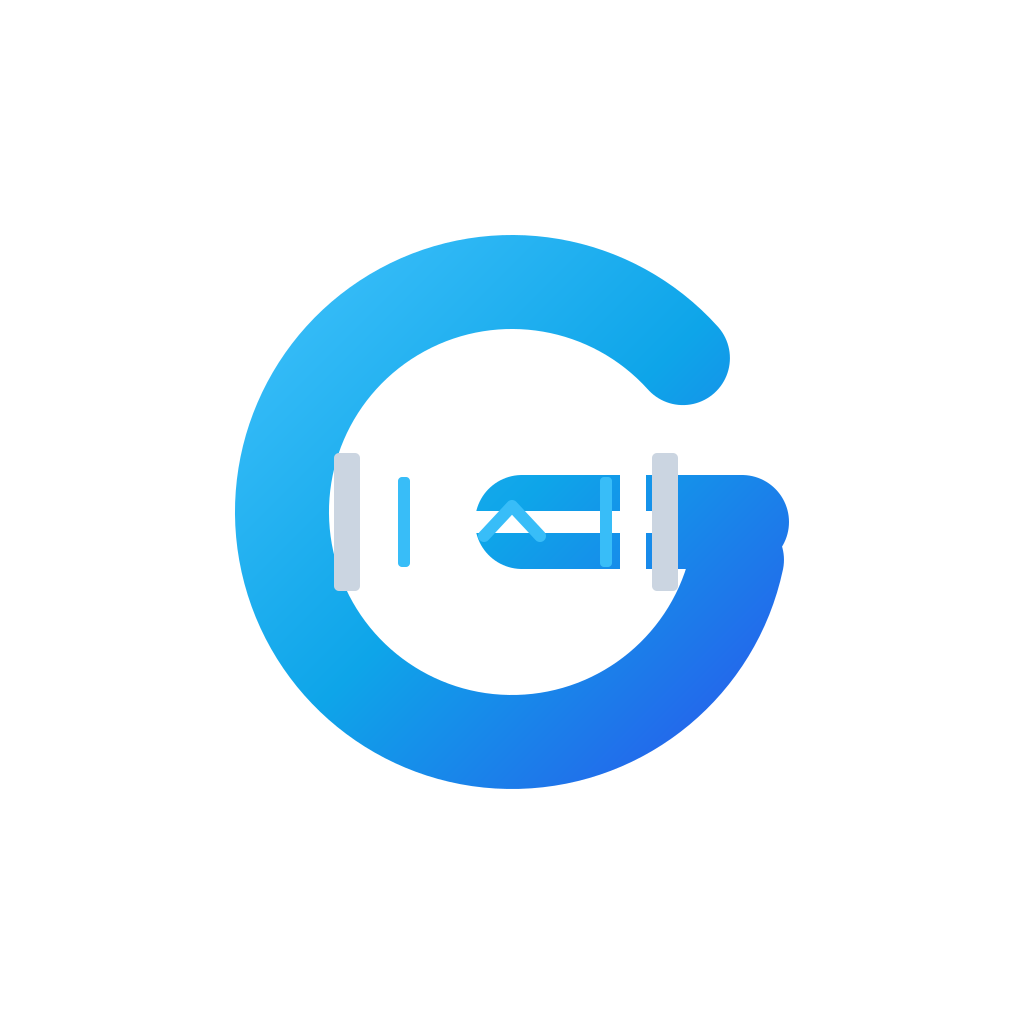
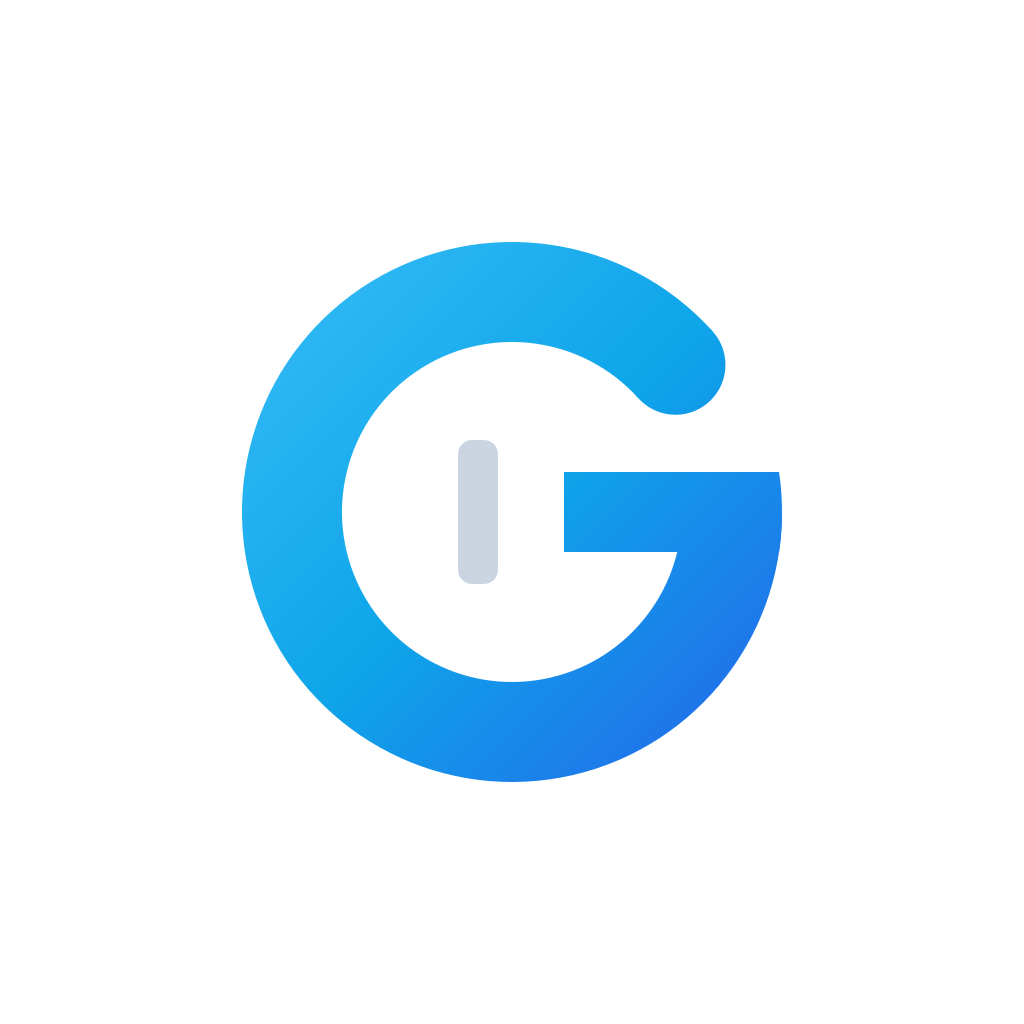
feat: diseño de marca, iconos y splash screen con expo-splash-screen

diff --git a/scripts/generate_brand_assets.py b/scripts/generate_brand_assets.py
@@ -1,203 +1,153 @@
 #!/usr/bin/env python3
 """
-Generador de assets de marca oficiales para GymFor.
-Crea los iconos y splash screen requeridos en assets/ con gráficos vectoriales (Cairo)
-y compresión PNG sin pérdida (Pillow).
+Generador de los assets de marca de GymFor (iconos y splash).
+
+Dibuja el emblema con Cairo (vectorial) y guarda PNGs con compresión sin
+pérdida (Pillow). Requiere `pycairo` y `Pillow`:
+
+    python3 scripts/generate_brand_assets.py
+
+Emblema: una «G» cuyo travesaño termina en un disco de pesas. Formas grandes
+y sin detalles finos para que se lea bien también a 48 px.
 """
 
 import math
 import os
+
 import cairo
 from PIL import Image
 
 ASSETS_DIR = os.path.join(os.path.dirname(os.path.abspath(__file__)), '..', 'assets')
 
 SIZE = 1024
-BG_COLOR = (15 / 255, 23 / 255, 42 / 255)  # #0F172A (Deep Slate Obsidian)
+BG_COLOR = (15 / 255, 23 / 255, 42 / 255)  # #0F172A
 
-# Paleta GymFor
-CYAN = (56 / 255, 189 / 255, 248 / 255)       # #38BDF8
+CYAN = (56 / 255, 189 / 255, 248 / 255)      # #38BDF8
 ELECTRIC = (14 / 255, 165 / 255, 233 / 255)  # #0EA5E9
 ROYAL = (37 / 255, 99 / 255, 235 / 255)      # #2563EB
 WHITE = (1.0, 1.0, 1.0)
 SILVER = (203 / 255, 213 / 255, 225 / 255)   # #CBD5E1
 
+# Geometría del emblema (unidades a escala 1.0, centrado en el origen).
+R_MEDIO = 220        # radio medio del anillo de la G
+GROSOR = 100         # grosor del trazo de la G
+R_EXTERIOR = R_MEDIO + GROSOR / 2  # 270 → diámetro 540 px < 682 px (zona segura 66%)
 
-def dibujar_emblema_gymfor(ctx, cx, cy, scale=1.0, monocromo=False):
-    """
-    Dibuja el emblema de GymFor: Monograma 'G' atlético integrado con barra y discos olímpicos.
-    El diámetro máximo a escala 1.0 es ~560 px, situado holgadamente dentro de la zona segura
-    de Android (diámetro 66% = ~682 px).
-    """
+
+def _rect_redondeado(ctx, x, y, w, h, r):
+    ctx.new_sub_path()
+    ctx.arc(x + w - r, y + r, r, math.radians(-90), 0)
+    ctx.arc(x + w - r, y + h - r, r, 0, math.radians(90))
+    ctx.arc(x + r, y + h - r, r, math.radians(90), math.radians(180))
+    ctx.arc(x + r, y + r, r, math.radians(180), math.radians(270))
+    ctx.close_path()
+
+
+def dibujar_emblema(ctx, cx, cy, escala=1.0, monocromo=False):
+    """Dibuja el emblema de GymFor centrado en (cx, cy)."""
     ctx.save()
     ctx.translate(cx, cy)
-    ctx.scale(scale, scale)
+    ctx.scale(escala, escala)
 
-    r_mid = 230
-    stroke_w = 94
-
-    # 1. Arco exterior de la letra G
     if monocromo:
-        ctx.set_source_rgba(1.0, 1.0, 1.0, 1.0)
+        relleno_g = cairo.SolidPattern(*WHITE)
     else:
-        grad = cairo.LinearGradient(-220, -220, 220, 220)
-        grad.add_color_stop_rgb(0.0, *CYAN)
-        grad.add_color_stop_rgb(0.5, *ELECTRIC)
-        grad.add_color_stop_rgb(1.0, *ROYAL)
-        ctx.set_source(grad)
+        relleno_g = cairo.LinearGradient(-R_EXTERIOR, -R_EXTERIOR, R_EXTERIOR, R_EXTERIOR)
+        relleno_g.add_color_stop_rgb(0.0, *CYAN)
+        relleno_g.add_color_stop_rgb(0.5, *ELECTRIC)
+        relleno_g.add_color_stop_rgb(1.0, *ROYAL)
 
-    ctx.set_line_width(stroke_w)
-    ctx.set_line_cap(cairo.LINE_CAP_ROUND)
-
-    # El arco recorre desde 12° en sentido horario hasta 318°
-    ctx.arc(0, 0, r_mid, math.radians(12), math.radians(318))
+    # 1. Anillo de la G: de 0° (derecha, a la altura del travesaño) en sentido
+    #    horario por abajo, izquierda y arriba hasta 318° (abertura arriba-derecha).
+    ctx.set_source(relleno_g)
+    ctx.set_line_width(GROSOR)
+    ctx.set_line_cap(cairo.LINE_CAP_BUTT)
+    ctx.arc(0, 0, R_MEDIO, 0, math.radians(318))
     ctx.stroke()
+    # Remate redondeado solo en el extremo superior de la abertura.
+    fin = math.radians(318)
+    ctx.arc(R_MEDIO * math.cos(fin), R_MEDIO * math.sin(fin), GROSOR / 2, 0, 2 * math.pi)
+    ctx.fill()
 
-    # Barra horizontal de entrada de la G
-    ctx.move_to(r_mid, 10)
-    ctx.line_to(10, 10)
-    ctx.stroke()
+    # 2. Travesaño de la G: del centro hacia el anillo, recortado por el círculo
+    #    exterior para que su extremo quede a ras de la curva.
+    alto_barra = GROSOR * 0.8
+    x_inicio_barra = 40
+    ctx.save()
+    ctx.arc(0, 0, R_EXTERIOR, 0, 2 * math.pi)
+    ctx.clip()
+    ctx.rectangle(x_inicio_barra, -alto_barra / 2, R_EXTERIOR - x_inicio_barra, alto_barra)
+    ctx.fill()
+    ctx.restore()
 
-    # 2. Barra de levantamiento (Barbell shaft)
-    if monocromo:
-        ctx.set_source_rgba(1.0, 1.0, 1.0, 1.0)
-    else:
-        ctx.set_source_rgb(*WHITE)
-
-    ctx.set_line_width(22)
-    ctx.set_line_cap(cairo.LINE_CAP_ROUND)
-    ctx.move_to(-140, 10)
-    ctx.line_to(140, 10)
-    ctx.stroke()
-
-    # Función auxiliar para dibujar discos redondeados
-    def dibujar_disco(x, y, w, h, r, col):
-        if monocromo:
-            ctx.set_source_rgba(1.0, 1.0, 1.0, 1.0)
-        else:
-            ctx.set_source_rgb(*col)
-        ctx.new_sub_path()
-        ctx.arc(x + r, y + r, r, math.radians(180), math.radians(270))
-        ctx.arc(x + w - r, y + r, r, math.radians(270), math.radians(360))
-        ctx.arc(x + w - r, y + h - r, r, math.radians(0), math.radians(90))
-        ctx.arc(x + r, y + h - r, r, math.radians(90), math.radians(180))
-        ctx.close_path()
-        ctx.fill()
-
-    plate_h = 170
-    plate_w = 26
-
-    # Discos del lado izquierdo
-    dibujar_disco(-120 - plate_w, 10 - plate_h / 2, plate_w, plate_h, 6, WHITE)
-    dibujar_disco(-120 - plate_w * 2 - 6, 10 - (plate_h - 32) / 2, plate_w, plate_h - 32, 5, SILVER)
-    dibujar_disco(-120 + 6, 10 - 45, 12, 90, 4, CYAN)  # collar
-
-    # Discos del lado derecho
-    dibujar_disco(120 - plate_w + 14, 10 - plate_h / 2, plate_w, plate_h, 6, WHITE)
-    dibujar_disco(120 + 20, 10 - (plate_h - 32) / 2, plate_w, plate_h - 32, 5, SILVER)
-    dibujar_disco(120 - plate_w - 6, 10 - 45, 12, 90, 4, CYAN)  # collar
-
-    # Chevron central de progresión / 1RM
-    if monocromo:
-        ctx.set_source_rgba(1.0, 1.0, 1.0, 1.0)
-    else:
-        ctx.set_source_rgb(*CYAN)
-    ctx.set_line_width(12)
-    ctx.set_line_cap(cairo.LINE_CAP_ROUND)
-    ctx.set_line_join(cairo.LINE_JOIN_ROUND)
-    ctx.move_to(-28, 24)
-    ctx.line_to(0, -6)
-    ctx.line_to(28, 24)
-    ctx.stroke()
+    # 3. Disco de pesas en el extremo interior del travesaño (no se solapa con el anillo).
+    ctx.set_source_rgb(*WHITE)
+    _rect_redondeado(ctx, -4, -105, 56, 210, 18)
+    ctx.fill()
+    ctx.set_source_rgb(*(WHITE if monocromo else SILVER))
+    _rect_redondeado(ctx, -54, -72, 40, 144, 14)
+    ctx.fill()
 
     ctx.restore()
 
 
-def guardar_png_optimizado(superficie_cairo, ruta_destino, modo_final='RGBA'):
-    """Guarda una superficie Cairo en PNG aplicando compresión sin pérdida."""
-    temp_path = ruta_destino + '.tmp.png'
-    superficie_cairo.write_to_png(temp_path)
-    with Image.open(temp_path) as im:
-        im_convertida = im.convert(modo_final)
-        im_convertida.save(ruta_destino, 'PNG', optimize=True, compress_level=9)
-    if os.path.exists(temp_path):
-        os.remove(temp_path)
-    print(f'Generado {os.path.basename(ruta_destino)}: {im_convertida.size}, modo={im_convertida.mode}, peso={os.path.getsize(ruta_destino)} bytes')
+def _guardar(superficie, nombre, modo):
+    ruta = os.path.join(ASSETS_DIR, nombre)
+    temporal = ruta + '.tmp.png'
+    superficie.write_to_png(temporal)
+    with Image.open(temporal) as im:
+        im.convert(modo).save(ruta, 'PNG', optimize=True, compress_level=9)
+    os.remove(temporal)
+    print(f'{nombre}: {modo}, {os.path.getsize(ruta)} bytes')
+    return ruta
 
 
-def generar_todos_los_assets():
+def _superficie(con_fondo):
+    formato = cairo.FORMAT_RGB24 if con_fondo else cairo.FORMAT_ARGB32
+    superficie = cairo.ImageSurface(formato, SIZE, SIZE)
+    ctx = cairo.Context(superficie)
+    if con_fondo:
+        ctx.set_source_rgb(*BG_COLOR)
+        ctx.paint()
+    return superficie, ctx
+
+
+def generar():
     os.makedirs(ASSETS_DIR, exist_ok=True)
 
-    # 1. icon.png (1024x1024 RGB, sin canal alfa)
-    surf_icon = cairo.ImageSurface(cairo.FORMAT_RGB24, SIZE, SIZE)
-    ctx_icon = cairo.Context(surf_icon)
-    ctx_icon.set_source_rgb(*BG_COLOR)
-    ctx_icon.paint()
-    dibujar_emblema_gymfor(ctx_icon, SIZE / 2, SIZE / 2, 1.0, monocromo=False)
-    guardar_png_optimizado(surf_icon, os.path.join(ASSETS_DIR, 'icon.png'), modo_final='RGB')
+    # icon.png / adaptive-icon.png: 1024×1024 RGB sin alfa.
+    s, ctx = _superficie(con_fondo=True)
+    dibujar_emblema(ctx, SIZE / 2, SIZE / 2)
+    ruta_icono = _guardar(s, 'icon.png', 'RGB')
+    _guardar(s, 'adaptive-icon.png', 'RGB')
 
-    # 2. adaptive-icon.png (1024x1024 RGB, sin canal alfa para compatibilidad Android legacy)
-    guardar_png_optimizado(surf_icon, os.path.join(ASSETS_DIR, 'adaptive-icon.png'), modo_final='RGB')
+    # android-icon-foreground.png: RGBA transparente, emblema dentro de la zona segura.
+    s, ctx = _superficie(con_fondo=False)
+    dibujar_emblema(ctx, SIZE / 2, SIZE / 2)
+    _guardar(s, 'android-icon-foreground.png', 'RGBA')
 
-    # 3. android-icon-foreground.png (1024x1024 RGBA, fondo transparente, zona segura 66%)
-    surf_fg = cairo.ImageSurface(cairo.FORMAT_ARGB32, SIZE, SIZE)
-    ctx_fg = cairo.Context(surf_fg)
-    dibujar_emblema_gymfor(ctx_fg, SIZE / 2, SIZE / 2, 1.0, monocromo=False)
-    guardar_png_optimizado(surf_fg, os.path.join(ASSETS_DIR, 'android-icon-foreground.png'), modo_final='RGBA')
+    # android-icon-background.png: color sólido #0F172A.
+    s, _ = _superficie(con_fondo=True)
+    _guardar(s, 'android-icon-background.png', 'RGB')
 
-    # 4. android-icon-background.png (1024x1024 RGB sólido #0F172A)
-    surf_bg = cairo.ImageSurface(cairo.FORMAT_RGB24, SIZE, SIZE)
-    ctx_bg = cairo.Context(surf_bg)
-    ctx_bg.set_source_rgb(*BG_COLOR)
-    ctx_bg.paint()
-    guardar_png_optimizado(surf_bg, os.path.join(ASSETS_DIR, 'android-icon-background.png'), modo_final='RGB')
+    # android-icon-monochrome.png: silueta blanca plana (Themed Icons, Android 13+).
+    s, ctx = _superficie(con_fondo=False)
+    dibujar_emblema(ctx, SIZE / 2, SIZE / 2, monocromo=True)
+    _guardar(s, 'android-icon-monochrome.png', 'RGBA')
 
-    # 5. android-icon-monochrome.png (1024x1024 RGBA, silueta plana blanca sobre transparente)
-    surf_mono = cairo.ImageSurface(cairo.FORMAT_ARGB32, SIZE, SIZE)
-    ctx_mono = cairo.Context(surf_mono)
-    dibujar_emblema_gymfor(ctx_mono, SIZE / 2, SIZE / 2, 1.0, monocromo=True)
-    guardar_png_optimizado(surf_mono, os.path.join(ASSETS_DIR, 'android-icon-monochrome.png'), modo_final='RGBA')
+    # splash-icon.png: solo el emblema sobre transparente. Sin texto y dentro del
+    # círculo central del 66%: Android 12+ recorta el icono de la splash en un
+    # círculo, y el texto o un emblema más grande quedarían cortados.
+    s, ctx = _superficie(con_fondo=False)
+    dibujar_emblema(ctx, SIZE / 2, SIZE / 2)
+    _guardar(s, 'splash-icon.png', 'RGBA')
 
-    # 6. splash-icon.png (1024x1024 RGBA, emblema + tipografía GymFor centrada)
-    surf_splash = cairo.ImageSurface(cairo.FORMAT_ARGB32, SIZE, SIZE)
-    ctx_splash = cairo.Context(surf_splash)
-    dibujar_emblema_gymfor(ctx_splash, SIZE / 2, 430, 0.88, monocromo=False)
-
-    # Tipografía G Y M F O R
-    ctx_splash.select_font_face('DejaVu Sans', cairo.FONT_SLANT_NORMAL, cairo.FONT_WEIGHT_BOLD)
-    ctx_splash.set_font_size(60)
-    ctx_splash.set_source_rgb(*WHITE)
-
-    letras = ['G', 'Y', 'M', 'F', 'O', 'R']
-    espacio = 20
-    anchos = [ctx_splash.text_extents(ch).x_advance for ch in letras]
-    ancho_total = sum(anchos) + espacio * (len(letras) - 1)
-    x_cursor = (SIZE - ancho_total) / 2
-    y_texto = 770
-
-    for ch in letras:
-        ctx_splash.move_to(x_cursor, y_texto)
-        ctx_splash.show_text(ch)
-        x_cursor += ctx_splash.text_extents(ch).x_advance + espacio
-
-    # Subtítulo descriptivo TRACKER
-    ctx_splash.select_font_face('DejaVu Sans', cairo.FONT_SLANT_NORMAL, cairo.FONT_WEIGHT_NORMAL)
-    ctx_splash.set_font_size(24)
-    ctx_splash.set_source_rgb(*CYAN)
-    sub = 'T R A C K E R'
-    sub_ext = ctx_splash.text_extents(sub)
-    ctx_splash.move_to((SIZE - sub_ext.width) / 2 - sub_ext.x_bearing, y_texto + 48)
-    ctx_splash.show_text(sub)
-
-    guardar_png_optimizado(surf_splash, os.path.join(ASSETS_DIR, 'splash-icon.png'), modo_final='RGBA')
-
-    # 7. favicon.png (48x48 RGBA, downscaling Lanczos de alta calidad)
-    with Image.open(os.path.join(ASSETS_DIR, 'icon.png')) as im_icon:
-        fav = im_icon.resize((48, 48), Image.Resampling.LANCZOS)
-        fav_path = os.path.join(ASSETS_DIR, 'favicon.png')
-        fav.save(fav_path, 'PNG', optimize=True, compress_level=9)
-        print(f'Generado favicon.png: (48, 48), modo={fav.mode}, peso={os.path.getsize(fav_path)} bytes')
+    # favicon.png: 48×48 reducido desde el icono.
+    with Image.open(ruta_icono) as im:
+        ruta = os.path.join(ASSETS_DIR, 'favicon.png')
+        im.resize((48, 48), Image.Resampling.LANCZOS).save(ruta, 'PNG', optimize=True)
+        print(f'favicon.png: RGB, {os.path.getsize(ruta)} bytes')
 
 
 if __name__ == '__main__':
-    generar_todos_los_assets()
+    generar()

diff --git a/AGENTS.md b/AGENTS.md
@@ -419,21 +419,17 @@ Docs: https://docs.expo.dev/eas/index.md
 
 ### 2026-11-11 — feat/brand-icon-splash
 
-- **Identidad de marca y diseño de iconos (`assets/`)**:
-  - Reemplazo integral de assets provisionales y figuras geométricas por el arte y monograma definitivo de GymFor: 'G' atlética integrada con barra y discos olímpicos en degradado cian/azul eléctrico (`#38BDF8` a `#2563EB`) sobre fondo pizarra oscura (`#0F172A`).
-  - `icon.png`: 1024×1024 px cuadrado, modo RGB sin canal alfa (requerido para iOS App Store y Expo).
-  - `adaptive-icon.png`: 1024×1024 px modo RGB idéntico para compatibilidad Android legacy.
-  - `android-icon-foreground.png`: 1024×1024 px RGBA con canal alfa, con el emblema (diámetro ~560 px) contenido holgadamente dentro de la zona segura central de 66% (diámetro 682 px) según directrices de Material Design.
-  - `android-icon-background.png`: 1024×1024 px modo RGB con color sólido `#0F172A` alineado con `adaptiveIcon.backgroundColor`.
-  - `android-icon-monochrome.png`: 1024×1024 px RGBA, silueta plana blanca sobre fondo transparente para iconos con tema dinámico (Themed Icons) en Android 13+.
-  - `splash-icon.png`: 1024×1024 px RGBA, emblema GymFor y tipografía `G Y M F O R` con espaciado tracking centrado para la pantalla de inicio.
-  - `favicon.png`: 48×48 px modo RGB con renderizado nítido optimizado para navegación web.
-- **Configuración en `app.json`**:
-  - Añadido el bloque oficial `"splash"`: `{ "image": "./assets/splash-icon.png", "resizeMode": "contain", "backgroundColor": "#0F172A" }`.
-  - Sincronizado `android.adaptiveIcon.backgroundColor: "#0F172A"`.
-- **Optimización y reducción de peso**:
-  - Script determinista `scripts/generate_brand_assets.py` con renderizado vectorial (Cairo) y compresión PNG sin pérdida a nivel máximo (Pillow `optimize=True, compress_level=9`).
-  - Reducción drástica del peso total de assets de ~900 KB a ~150 KB (reducción de más del 80% en almacenamiento para el bundle de instalación).
-- **Verificado**: `bunx tsc --noEmit` ✅, `bunx expo lint` 0 errores ✅ (9 warnings preexistentes), `bun run test` 21/21 suites y 220/220 tests ✅, `bunx expo config --type public` ✅ (todos los assets resueltos sin warnings), `bunx expo export --platform web` ✅ (exportación exitosa incluyendo favicon e icono).
+- **Iconos (`assets/`)**: se sustituyen los placeholders por un emblema generado por código: una «G» en degradado cian→azul (`#38BDF8` → `#2563EB`) sobre `#0F172A`, cuyo travesaño termina en un disco de pesas. Formas grandes, sin detalles finos, para que se lea a 48 px. **Es una propuesta del agente, no arte oficial de un diseñador**: si llega un logo definitivo, basta con reemplazar los PNG o ajustar el script.
+  - `icon.png` y `adaptive-icon.png`: 1024×1024 RGB sin alfa.
+  - `android-icon-foreground.png`: 1024×1024 RGBA; emblema de 540 px de diámetro, dentro de la zona segura del 66% (682 px).
+  - `android-icon-background.png`: 1024×1024 RGB sólido `#0F172A` (igual que `adaptiveIcon.backgroundColor`).
+  - `android-icon-monochrome.png`: 1024×1024 RGBA, silueta blanca plana (Themed Icons, Android 13+).
+  - `splash-icon.png`: 1024×1024 RGBA, solo el emblema y sin texto. Android 12+ recorta el icono de la splash en un círculo, así que el emblema queda dentro del 66% central.
+  - `favicon.png`: 48×48 reducido desde `icon.png` (Lanczos).
+- **Splash (`app.json`)**: en SDK 58 la clave `splash` en la raíz ya no existe en `ExpoConfig` (solo queda `web.splash`, para PWA) y se ignora en nativo. Se instala `expo-splash-screen` (`~58.0.14`, lo instaló el usuario con `bunx expo install`) y se configura como plugin: `image`, `imageWidth: 200`, `resizeMode: "contain"`, `backgroundColor: "#0F172A"` y una variante `dark` igual. `adaptiveIcon.backgroundColor` pasa de `#E6F4FE` a `#0F172A`.
+- **Script reproducible**: `scripts/generate_brand_assets.py` (pycairo + Pillow) dibuja el emblema en vectorial y guarda los PNG con compresión sin pérdida (`optimize=True`, `compress_level=9`).
+- **Peso**: los PNG fuente bajan de unos 905 KB a unos 136 KB. Ojo: Expo genera los mipmaps nativos a partir de estos archivos, así que **el tamaño del APK instalado casi no cambia**. Esto no resuelve el problema de almacenamiento de la app.
+- **Pendiente**: ver el icono y la splash en un dispositivo real (necesita un build nuevo; Expo Go no usa estos assets).
+- Verificado: `bunx tsc --noEmit` ✅, `bunx expo lint` 0 errores ✅ (9 warnings preexistentes), `bun run test` 21/21 suites y 220/220 tests ✅, `bunx expo config --type prebuild` ✅ (el plugin `expo-splash-screen` resuelve y aparece en `pluginHistory`), `bunx expo export --platform web` ✅.
 
 
